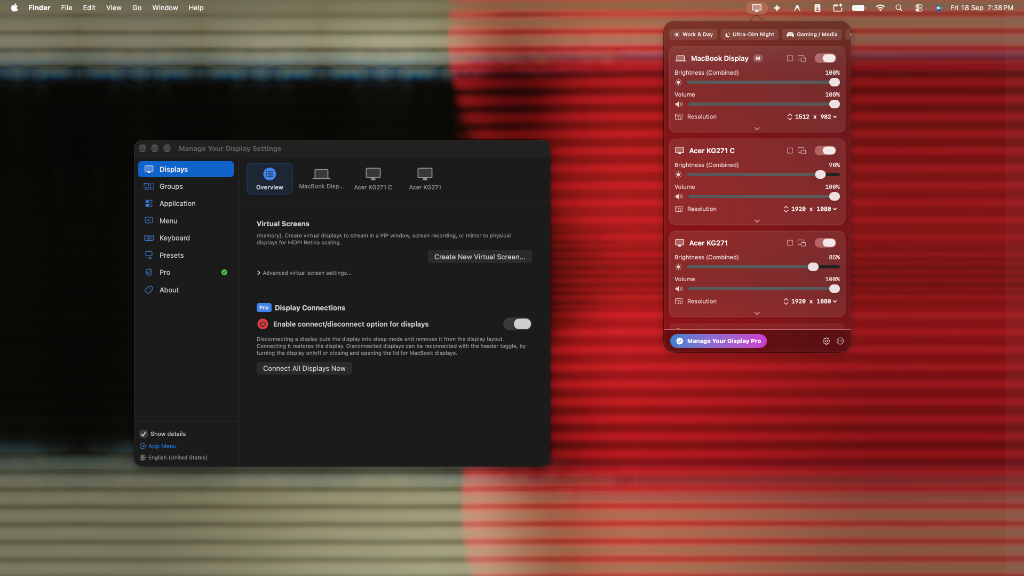
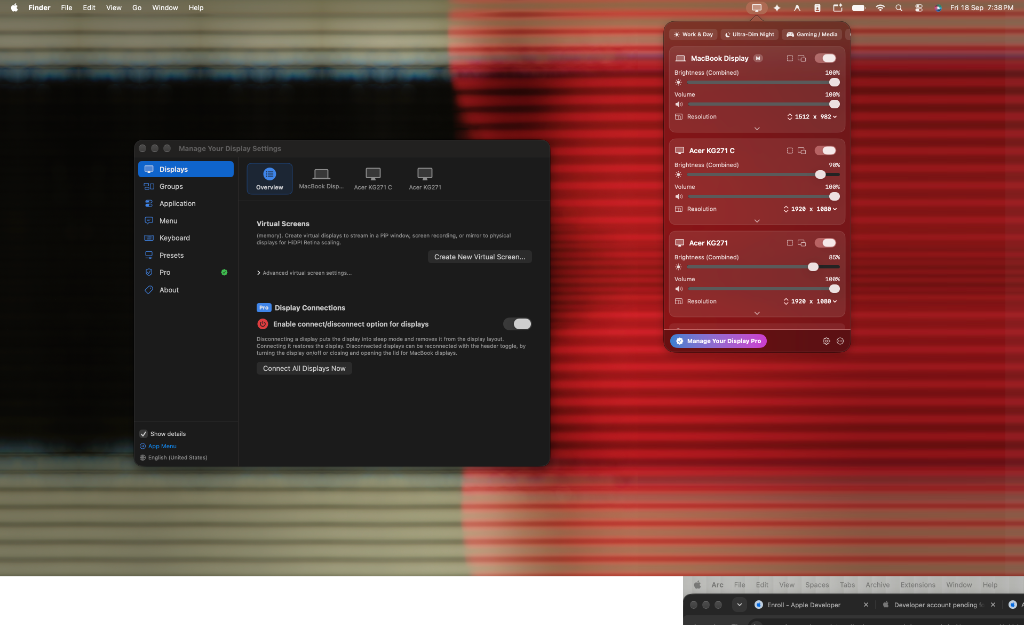
fix(web): fix distorted mockup frame with proportional MacBook unibody chassis, clean bezel camera, and full 16:10 screenshot

diff --git a/web/style.css b/web/style.css
@@ -266,9 +266,8 @@ body {
    ========================================= */
 .macbook-wrapper {
   width: 100%;
-  max-width: 860px;
+  max-width: 960px;
   margin: 0 auto;
-  perspective: 1200px;
 }
 
 .macbook-mockup {
@@ -276,90 +275,98 @@ body {
   display: flex;
   flex-direction: column;
   align-items: center;
-  transition: transform 0.3s ease;
+  transition: transform 0.3s cubic-bezier(0.16, 1, 0.3, 1);
 }
 
 .macbook-mockup:hover {
-  transform: translateY(-2px);
+  transform: translateY(-3px);
 }
 
 /* MacBook Screen Lid */
 .macbook-screen {
   position: relative;
   width: 100%;
-  background: var(--mac-bezel);
-  border-radius: 16px 16px 3px 3px;
-  padding: 8px 8px 10px 8px;
-  box-shadow: inset 0 0 0 1px #222226, 0 20px 60px rgba(0, 0, 0, 0.95);
-  overflow: hidden;
+  background: #09090b;
+  border-radius: 16px 16px 2px 2px;
+  padding: 6px 8px 10px 8px;
+  box-shadow: 
+    0 0 0 1px rgba(255, 255, 255, 0.12),
+    0 30px 80px -15px rgba(0, 0, 0, 0.95),
+    0 0 50px rgba(0, 0, 0, 0.7);
+  box-sizing: border-box;
 }
 
-/* Top Notch & Camera */
-.macbook-notch {
-  position: absolute;
-  top: 8px;
-  left: 50%;
-  transform: translateX(-50%);
-  width: 90px;
-  height: 12px;
-  background: #000000;
-  border-radius: 0 0 7px 7px;
-  z-index: 50;
+/* Top Bezel & Camera Lens (Centered inside bezel, clean pinhole lens) */
+.macbook-top-bezel {
+  height: 8px;
   display: flex;
   align-items: center;
   justify-content: center;
+  margin-bottom: 3px;
 }
 
 .camera-lens {
-  width: 3.5px;
-  height: 3.5px;
+  width: 4px;
+  height: 4px;
   border-radius: 50%;
   background: #111827;
-  border: 1px solid #1f2937;
+  border: 1px solid rgba(255, 255, 255, 0.18);
+  box-shadow: inset 0 0 1px #000;
 }
 
 /* Screen Display Content */
 .macbook-display-content {
   position: relative;
   width: 100%;
-  border-radius: 6px;
+  border-radius: 8px;
   overflow: hidden;
   background: #000000;
-  display: flex;
+  line-height: 0;
+  box-shadow: inset 0 0 0 1px rgba(255, 255, 255, 0.08);
 }
 
 .screen-screenshot {
   width: 100%;
   height: auto;
   display: block;
-  border-radius: 6px;
+  border-radius: 8px;
   user-select: none;
+  pointer-events: none;
 }
 
-/* MacBook Base */
+/* MacBook Unibody Base / Keyboard Deck */
 .macbook-base {
   position: relative;
-  width: 108%;
-  height: 12px;
-  background: linear-gradient(180deg, #242428 0%, #121214 100%);
+  width: calc(100% + 36px);
+  margin-left: -18px;
+  margin-right: -18px;
+  height: 14px;
+  background: linear-gradient(180deg, #27272a 0%, #18181b 45%, #09090b 100%);
   border-radius: 0 0 14px 14px;
-  box-shadow: inset 0 1px 0 rgba(255, 255, 255, 0.15);
+  border-top: 1px solid rgba(255, 255, 255, 0.18);
+  box-shadow: 
+    inset 0 1px 0 rgba(255, 255, 255, 0.25),
+    0 10px 30px rgba(0, 0, 0, 0.9);
   display: flex;
   justify-content: center;
+  box-sizing: border-box;
 }
 
 .macbook-notch-indent {
-  width: 90px;
-  height: 3.5px;
-  background: #09090b;
-  border-radius: 0 0 4px 4px;
+  width: 72px;
+  height: 4px;
+  background: #070709;
+  border-radius: 0 0 5px 5px;
+  box-shadow: inset 0 1px 2px rgba(0, 0, 0, 0.9), 0 1px 0 rgba(255, 255, 255, 0.06);
 }
 
 .macbook-shadow {
-  width: 85%;
-  height: 25px;
-  background: radial-gradient(ellipse at center, rgba(0, 0, 0, 0.9) 0%, rgba(0, 0, 0, 0) 70%);
-  margin-top: 4px;
+  width: 92%;
+  height: 30px;
+  background: radial-gradient(ellipse at 50% 50%, rgba(0, 0, 0, 0.85) 0%, rgba(0, 0, 0, 0) 70%);
+  margin: -4px auto 0;
+  filter: blur(10px);
+  pointer-events: none;
 }
 
 /* =========================================

diff --git a/web/index.html b/web/index.html
@@ -70,8 +70,8 @@
           <div class="macbook-mockup">
             <!-- Screen Lid -->
             <div class="macbook-screen">
-              <!-- Notch & Camera -->
-              <div class="macbook-notch">
+              <!-- Top Bezel with Camera Lens -->
+              <div class="macbook-top-bezel">
                 <span class="camera-lens"></span>
               </div>
 
@@ -81,7 +81,7 @@
               </div>
             </div>
 
-            <!-- MacBook Base / Keyboard Deck & Hinge -->
+            <!-- MacBook Base / Aluminum Deck -->
             <div class="macbook-base">
               <div class="macbook-notch-indent"></div>
             </div>
